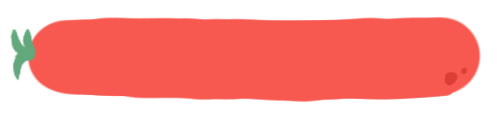
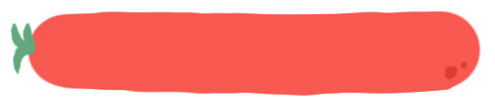
functional countdown timer.

Changed region(s): [[0.0, 0.0874, 0.9697, 0.932], [0.0, 0.4078, 0.0303, 0.4369]]

diff --git a/index.js b/index.js
@@ -1,1 +1,144 @@
 "use strict"
+
+let workMessages = [
+    "🤩 Doing great so far!",
+    "😄 Keep going, you can do it!",
+    "😊 Being productive can feel great.",
+    "🤠 Yeehaw! Let's keep it up!",
+    "💪 Studying hard? Keep it up.",
+    "🧠 Get that brain working.",
+    "🍞 Study up and get that bread.",
+    "✨ You are doing great.",
+    "💰💎💵 <- Your future.",
+    "📃 All this work, but you can!",
+    "❤ Thank you for using this timer.",
+    "🔥 Keep going.",
+    "💯 Aim high. I believe in you.",
+    "💻 Focus now, play later.",
+];
+
+let breakMessages = [
+    "☕ Here, a cup of coffee.",
+    "🌯 Snack break?",
+    "🧠 Charging...",
+    "🎧 Listen to some music.",
+];
+
+const workBtnEl = document.querySelector("#work-btn");
+const shortBreakBtnEl = document.querySelector("#short-break-btn");
+const longBreakBtnEl = document.querySelector("#long-break-btn");
+const timeEl = document.querySelector("#time");
+const messageEl = document.querySelector("#message");
+const displayEl = document.querySelector("#display");
+const totalTimeEl = document.querySelector("#total-time");
+
+const work = 25; 
+const shortBreak = 5;
+const longBreak = 15;
+let currentMinutes, currentSeconds, totalMinutes, totalHours;
+currentMinutes = currentSeconds = totalMinutes = totalHours = 0;
+console.log(totalMinutes);
+let currentTimer, workTimer;
+let start = true;
+
+
+workBtnEl.addEventListener("click", function() {
+
+    displayEl.textContent = "Studying...";
+    start = true;
+    showMessage(workMessages);
+    startTime("25:00", work);
+
+});
+
+
+function updateStudyTime() {
+
+    totalMinutes += 1;
+    
+    if (totalMinutes == 60) {
+        totalMinutes = 0;
+        totalHours += 1;
+    }
+
+    let hourStr, minuteStr;
+
+    if (totalHours > 1) {
+        hourStr = "hrs";
+    } else hourStr = "hr";
+
+    if (totalMinutes > 1) {
+        minuteStr = "mins";
+    } else minuteStr = "min";
+
+    totalTimeEl.textContent = totalHours + hourStr + " " + totalMinutes + minuteStr;
+
+}
+
+
+shortBreakBtnEl.addEventListener("click", function() {
+
+    clearInterval(workTimer);
+    displayEl.textContent = "Taking a short break...";
+    showMessage(breakMessages);
+    startTime("05:00", shortBreak);
+
+});
+
+
+longBreakBtnEl.addEventListener("click", function() {
+
+    clearInterval(workTimer);
+    displayEl.textContent = "Taking a long break...";
+    showMessage(breakMessages);
+    startTime("15:00", longBreak);
+
+});
+
+
+function showMessage(messageArray) {
+    let randomIndex = Math.floor( Math.random() * ( messageArray.length - 1 ) );
+    messageEl.textContent = messageArray[ randomIndex ];
+}
+
+
+function startTime(startingTime, time) {
+    clearTimeout(currentTimer);
+
+    timeEl.textContent = startingTime;
+    currentMinutes = time;
+
+    countDown(currentMinutes, 0);
+}
+
+
+function countDown(minutes, seconds) {
+
+    let tempSeconds = seconds;
+    let tempMinutes = minutes;
+
+    if (seconds < 10) {
+        tempSeconds = "0" + seconds;
+    }
+    if (minutes < 10) {
+        tempMinutes = "0" + minutes
+    }
+
+    timeEl.textContent = tempMinutes + ":" + tempSeconds;
+
+    if (seconds == 0) {
+        if (minutes == 0) {
+            return;
+        }
+        minutes -= 1;
+        seconds = 59;
+        if (start) { // make a more elegant solution later...
+            start = false;
+        } else updateStudyTime()
+    } else seconds--;
+
+    currentTimer = setTimeout(countDown, 1000, minutes, seconds);
+
+}
+
+

diff --git a/index.css b/index.css
@@ -2,7 +2,7 @@ body {
     margin: 0;
     padding: 0;
     min-width: 300px;
-    min-height: 260px;
+    min-height: 370px;
     background-color: 255, 180, 0;
     background-color: #FFB400;
     font-family: 'Patrick Hand', cursive;
@@ -15,7 +15,30 @@ body {
     position: relative;
 }
 
+#display {
+    width: 75%;
+    margin: auto;
+    margin-bottom: 10px;
+}
+
+button {
+    font-family: 'Patrick Hand', cursive;
+    font-size: 17px;
+}
+
+.footer {
+    width: 75%;
+    color: #113537;
+    padding: 10px;
+    margin: auto;
+    margin-top: 10px;
+    justify-content: center;
+    background-color: #F75850;
+    border-radius: 7px;
+}
+
 img {
+    margin-top: 3px;
     width: 300px;
     height: auto;
 }
@@ -34,19 +57,16 @@ h3 small {
     letter-spacing: 2px;
 }
 
-div.button {
+.button {
+    border: none;
     color: white;
     padding: 10px;
-    margin: auto;
+    justify-content: center;
     background-color: #37505C;
     border-radius: 7px;
 }
 
-div#display {
-    width: 75%;
-}
-
-div#time {
+#time {
     letter-spacing: 7px;
     font-size: 35px;
     color: #37505C;
@@ -54,19 +74,29 @@ div#time {
     border-radius: 5px;
     width: 85%;
     padding: 3px;
-    margin: 10px auto;
+    margin: 0 auto 10px auto;
     border-radius: 7px;
     width: 70%;
 }
 
-div.choice-btn {
+.choice-grid {
+    width: 80%;
+    margin: auto;
+    display: grid;
+    grid-template-columns: repeat(3, minmax(0, 1fr));
+    grid-gap: 10px;
+}
+
+.choice-btn {
     display: inline-block;
-    width: 30%;
-    margin: auto 4px;
+    grid-template-columns: auto / span 1;
 }
 
-div#left-btn {
-}
-
-div#right-btn {
+#work-btn {
+    justify-content: stretch;
+    align-items: stretch;
+    justify-items: stretch;
+    align-content: stretch;
+    align-self: stretch;
+    justify-self: stretch;
 }

diff --git a/index.html b/index.html
@@ -12,13 +12,23 @@
 </head>
 <body>
     <div class="container">
-        <img src="tomato.png" alt="Tomato title image"></img>
+        <img src="tomato.png" alt="Tomato title image">
         <h3>POMODORO <small>Timer</small></h3>
     </div>
-    <div id="display" class="button">Study for how long?</div>
+
+    <div id="display" class="button">What to do?</div>
+
     <div id="time">00:00</div>
-    <div id="left-btn" class="button choice-btn">OK</div>
-    <div id="right-btn" class="button choice-btn">CLEAR</div>
+    
+    <div class="choice-grid">
+        <button id="work-btn" class="button choice-btn">Study</button>
+        <button id="short-break-btn" class="button choice-btn">Short break</button>
+        <button id="long-break-btn" class="button choice-btn">Long break</button>
+    </div>
+    <div class="footer">
+        <div id="message">❤ Thank you for using this timer.</div>
+        <div>Studied for... <span id="total-time">0hr 0min</span></div>
+    </div>
     <script src="index.js"></script>
 </body>
 </html>
